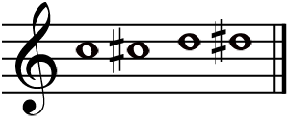
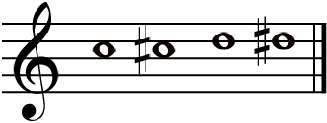
add width argument

diff --git a/docs/docs.md b/docs/docs.md
@@ -2,11 +2,9 @@
 
 Author: Matthew Davis
 
-This Typst package is used to draw musical scales.
-
-For now this is restricted to only one stave (set of 5 lines). This
-package can be used to write arbitrary notes, but is not intended to be
-used for entire songs.
+This Typst package is used to draw musical scales. This package can be
+used to write arbitrary notes, but is not intended to be used for entire
+songs.
 
 ``` typ
 #import "@preview/staves:0.1.0": major-scale
@@ -26,7 +24,7 @@ Arpeggio](https://raw.githubusercontent.com/mdavis-xyz/staves-typst/refs/heads/m
 
 ``` typ
 #import "@preview/staves:0.1.0": stave
-#stave("alto", "c", notes: ("C3", "D#4", "F3"))
+#stave("alto", "c", notes: ("C3", "D#4", "F3"), width: 7cm)
 ```
 
 ![Custom
@@ -36,7 +34,10 @@ Notes](https://raw.githubusercontent.com/mdavis-xyz/staves-typst/refs/heads/mast
 
 The foundational function is called `stave`. This is for writing just
 clefs, clefs and key signatures, or clefs, key signatures and custom
-notes.
+notes. Typically as a user you should use the higher-level abstractions
+such as `arpeggio` and `major-scale` (documented further down), if they
+suit your needs. `staves` is exposed for creating custom scales which
+are not yet supported (e.g. broken chords, scales in thirds etc).
 
 ### Usage
 
@@ -80,24 +81,26 @@ notes will be placed on the first stave. Page breaks are blocked between
 staves of the same scale.
 
 
-`geometric-scale`: (optional) Number e.g. 0.5 or 2 to draw the content at half or double
-the size. This is about visual scale, not musical scales.
-
-
 `note-duration`: (optional) Allowed values are “whole", "quarter", "semibreve",
 "crotchet”. Default is “whole” note. All notes are the same duration.
 
 
-`note-sep`: (optional) Used to adjust the horizontal spacing between notes. If you
-shrink below `note-sep: 0.7`, leger lines will overlap. At that point if
-it’s still too big, use `geometric-scale` as well.
+`width`: (Optional) If provided, sets the length of the stave lines. It omitted
+(or `auto`), the stave lines will be stretched to the available space.
+If the page width itself is `auto`, a sensible default will be used.
+
+
+`line-sep`: (Optional) A
+<u>[length](https://typst.app/docs/reference/layout/length/)</u> used to
+set the vertical spacing of the 5 stave lines (within a given stave).
+Note that this is a length with units, e.g. `3cm`, not just `3`.
 
 
 `equal-note-head-space`: `true` or `false`. Defaults to `true`. If true, note heads will be
 equally spaced. Some of this space will be taken up with accidentals. If
 `false`, adding an accidental to a note will shift the note head further
-right. `true` looks better (in my opinion), but `false` is useful in
-combination with the other spacing arguments, to avoid accidentals
+right. `true` looks better (in my opinion), but `false` is useful when
+trying to squish many notes into one stave, to avoid accidentals
 overlapping with previous note heads.
 
 ### Examples
@@ -147,24 +150,26 @@ The `notes-per-stave` argument can be used to split up long scales into
 multiple lines.
 
 ``` typ
-#major-scale("treble", "D", 4, num-octaves: 2, notes-per-stave: 2 * num-letters-per-octave)
+#major-scale("treble", "D", 4, num-octaves: 2, notes-per-stave: 16)
 ```
 
 ![2-octave scale scale with \`notes-per-stave\`:
 \`num-letters-per-octave\`](https://raw.githubusercontent.com/mdavis-xyz/staves-typst/refs/heads/master/docs/examples/scale-long.png)
 
-The `geometric-scale` argument can be used to adjust the overall size:
+The `width` argument can be used to adjust the overall width.
 
-|  |  |  |
-|----|----|----|
-| ![\`geometric-scale\`: 2](https://raw.githubusercontent.com/mdavis-xyz/staves-typst/refs/heads/master/docs/examples/geometric-scale-2.png) | ![default (omitted \`geometric-scale\`)](https://raw.githubusercontent.com/mdavis-xyz/staves-typst/refs/heads/master/docs/examples/geometric-scale-omitted.png) | ![\`geometric-scale\`: 0.5](https://raw.githubusercontent.com/mdavis-xyz/staves-typst/refs/heads/master/docs/examples/geometric-scale-0-5.png) |
+``` typ
+#stave("treble", "f", width: 7cm)
+```
 
-`note-sep` can be used to adjust the horizontal separation between
-notes, whilst keeping the height of the stave the same:
+![Explcit \`width\`
+argument](https://raw.githubusercontent.com/mdavis-xyz/staves-typst/refs/heads/master/docs/examples/width.png)
 
-|  |  |
-|----|----|
-| ![default (omitted \`note-sep\`)](https://raw.githubusercontent.com/mdavis-xyz/staves-typst/refs/heads/master/docs/examples/note-sep-omitted.png) | ![\`note-sep\`: 0.6](https://raw.githubusercontent.com/mdavis-xyz/staves-typst/refs/heads/master/docs/examples/note-sep-0-6.png) |
+The `line-sep` argument can be used to adjust the vertical spacing
+between stave lines:
+
+![\`line-sep\`
+argument](https://raw.githubusercontent.com/mdavis-xyz/staves-typst/refs/heads/master/docs/examples/line-sep.png)
 
 `equal-note-head-space` is used to adjust the spacing based on whether
 there are accidentals.
@@ -196,24 +201,26 @@ notes will be placed on the first stave. Page breaks are blocked between
 staves of the same scale.
 
 
-`geometric-scale`: (optional) Number e.g. 0.5 or 2 to draw the content at half or double
-the size. This is about visual scale, not musical scales.
-
-
 `note-duration`: (optional) Allowed values are “whole", "quarter", "semibreve",
 "crotchet”. Default is “whole” note. All notes are the same duration.
 
 
-`note-sep`: (optional) Used to adjust the horizontal spacing between notes. If you
-shrink below `note-sep: 0.7`, leger lines will overlap. At that point if
-it’s still too big, use `geometric-scale` as well.
+`width`: (Optional) If provided, sets the length of the stave lines. It omitted
+(or `auto`), the stave lines will be stretched to the available space.
+If the page width itself is `auto`, a sensible default will be used.
+
+
+`line-sep`: (Optional) A
+<u>[length](https://typst.app/docs/reference/layout/length/)</u> used to
+set the vertical spacing of the 5 stave lines (within a given stave).
+Note that this is a length with units, e.g. `3cm`, not just `3`.
 
 
 `equal-note-head-space`: `true` or `false`. Defaults to `true`. If true, note heads will be
 equally spaced. Some of this space will be taken up with accidentals. If
 `false`, adding an accidental to a note will shift the note head further
-right. `true` looks better (in my opinion), but `false` is useful in
-combination with the other spacing arguments, to avoid accidentals
+right. `true` looks better (in my opinion), but `false` is useful when
+trying to squish many notes into one stave, to avoid accidentals
 overlapping with previous note heads.
 
 ### Examples
@@ -226,16 +233,7 @@ overlapping with previous note heads.
 ![D Major
 Scale](https://raw.githubusercontent.com/mdavis-xyz/staves-typst/refs/heads/master/docs/examples/D-major.png)
 
-You can write a 2 octave scale with `num-octaves: 2`. This is probably
-too wide for your page. Shrink it horizontally with `note-sep`, or
-shrink in both dimensions with `geometric-scale`.
-
-``` typ
-#major-scale("bass", "F", 2, num-octaves: 2, note-sep: 0.7, geometric-scale: 0.7)
-```
-
-![F Major Scale, shrunken to fit the
-page](https://raw.githubusercontent.com/mdavis-xyz/staves-typst/refs/heads/master/docs/examples/F-major-shrunk.png)
+You can write a 2 octave scale with `num-octaves: 2`.
 
 ## Minor Scale
 
@@ -268,24 +266,26 @@ notes will be placed on the first stave. Page breaks are blocked between
 staves of the same scale.
 
 
-`geometric-scale`: (optional) Number e.g. 0.5 or 2 to draw the content at half or double
-the size. This is about visual scale, not musical scales.
-
-
 `note-duration`: (optional) Allowed values are “whole", "quarter", "semibreve",
 "crotchet”. Default is “whole” note. All notes are the same duration.
 
 
-`note-sep`: (optional) Used to adjust the horizontal spacing between notes. If you
-shrink below `note-sep: 0.7`, leger lines will overlap. At that point if
-it’s still too big, use `geometric-scale` as well.
+`width`: (Optional) If provided, sets the length of the stave lines. It omitted
+(or `auto`), the stave lines will be stretched to the available space.
+If the page width itself is `auto`, a sensible default will be used.
+
+
+`line-sep`: (Optional) A
+<u>[length](https://typst.app/docs/reference/layout/length/)</u> used to
+set the vertical spacing of the 5 stave lines (within a given stave).
+Note that this is a length with units, e.g. `3cm`, not just `3`.
 
 
 `equal-note-head-space`: `true` or `false`. Defaults to `true`. If true, note heads will be
 equally spaced. Some of this space will be taken up with accidentals. If
 `false`, adding an accidental to a note will shift the note head further
-right. `true` looks better (in my opinion), but `false` is useful in
-combination with the other spacing arguments, to avoid accidentals
+right. `true` looks better (in my opinion), but `false` is useful when
+trying to squish many notes into one stave, to avoid accidentals
 overlapping with previous note heads.
 
 ### Examples
@@ -348,24 +348,26 @@ notes will be placed on the first stave. Page breaks are blocked between
 staves of the same scale.
 
 
-`geometric-scale`: (optional) Number e.g. 0.5 or 2 to draw the content at half or double
-the size. This is about visual scale, not musical scales.
-
-
 `note-duration`: (optional) Allowed values are “whole", "quarter", "semibreve",
 "crotchet”. Default is “whole” note. All notes are the same duration.
 
 
-`note-sep`: (optional) Used to adjust the horizontal spacing between notes. If you
-shrink below `note-sep: 0.7`, leger lines will overlap. At that point if
-it’s still too big, use `geometric-scale` as well.
+`width`: (Optional) If provided, sets the length of the stave lines. It omitted
+(or `auto`), the stave lines will be stretched to the available space.
+If the page width itself is `auto`, a sensible default will be used.
+
+
+`line-sep`: (Optional) A
+<u>[length](https://typst.app/docs/reference/layout/length/)</u> used to
+set the vertical spacing of the 5 stave lines (within a given stave).
+Note that this is a length with units, e.g. `3cm`, not just `3`.
 
 
 `equal-note-head-space`: `true` or `false`. Defaults to `true`. If true, note heads will be
 equally spaced. Some of this space will be taken up with accidentals. If
 `false`, adding an accidental to a note will shift the note head further
-right. `true` looks better (in my opinion), but `false` is useful in
-combination with the other spacing arguments, to avoid accidentals
+right. `true` looks better (in my opinion), but `false` is useful when
+trying to squish many notes into one stave, to avoid accidentals
 overlapping with previous note heads.
 
 ### Example
@@ -404,40 +406,39 @@ notes will be placed on the first stave. Page breaks are blocked between
 staves of the same scale.
 
 
-`geometric-scale`: (optional) Number e.g. 0.5 or 2 to draw the content at half or double
-the size. This is about visual scale, not musical scales.
-
-
 `note-duration`: (optional) Allowed values are “whole", "quarter", "semibreve",
 "crotchet”. Default is “whole” note. All notes are the same duration.
 
 
-`note-sep`: (optional) Used to adjust the horizontal spacing between notes. If you
-shrink below `note-sep: 0.7`, leger lines will overlap. At that point if
-it’s still too big, use `geometric-scale` as well.
+`width`: (Optional) If provided, sets the length of the stave lines. It omitted
+(or `auto`), the stave lines will be stretched to the available space.
+If the page width itself is `auto`, a sensible default will be used.
+
+
+`line-sep`: (Optional) A
+<u>[length](https://typst.app/docs/reference/layout/length/)</u> used to
+set the vertical spacing of the 5 stave lines (within a given stave).
+Note that this is a length with units, e.g. `3cm`, not just `3`.
 
 
 `equal-note-head-space`: `true` or `false`. Defaults to `true`. If true, note heads will be
 equally spaced. Some of this space will be taken up with accidentals. If
 `false`, adding an accidental to a note will shift the note head further
-right. `true` looks better (in my opinion), but `false` is useful in
-combination with the other spacing arguments, to avoid accidentals
+right. `true` looks better (in my opinion), but `false` is useful when
+trying to squish many notes into one stave, to avoid accidentals
 overlapping with previous note heads.
-
-These scales tend to be quite long, so you probably want to use
-`note-sep` and `geometric-scale`, and perhaps a landscape page.
 
 ### Examples
 
 ``` typ
-#chromatic-scale("treble", "D", 4, note-sep: 0.8, geometric-scale: 0.7)
+#chromatic-scale("treble", "D", 4, notes-per-stave: semitones-per-octave + 1)
 ```
 
 ![D Chromatic
 Scale](https://raw.githubusercontent.com/mdavis-xyz/staves-typst/refs/heads/master/docs/examples/D-chromatic.png)
 
 ``` typ
-#chromatic-scale("bass", "G", 2, side: "flat", geometric-scale: 0.6, note-duration: "crotchet")
+#chromatic-scale("bass", "G", 2, side: "flat", note-duration: "crotchet", notes-per-stave: semitones-per-octave + 1)
 ```
 
 ![G Chromatic
@@ -470,8 +471,8 @@ and is likely to change in fugure versions.
 ## Setting Defaults
 
 To set a default, such as the same `note-duration` for your whole
-document, use [the with
-approach](https://forum.typst.app/t/how-to-apply-set-rules-to-custom-functions/1657/2?u=mdavis_xyz)
+document, use <u>[the with
+approach](https://forum.typst.app/t/how-to-apply-set-rules-to-custom-functions/1657/2?u=mdavis_xyz)</u>
 (for each different scale type):
 
 ``` typ
@@ -482,7 +483,7 @@ approach](https://forum.typst.app/t/how-to-apply-set-rules-to-custom-functions/1
 ## Implementation Details
 
 This package uses a `canvas` from the
-[CeTZ](https://typst.app/universe/package/cetz) package.
+<u>[CeTZ](https://typst.app/universe/package/cetz)</u> package.
 
 ## License Details
 
@@ -490,4 +491,4 @@ This library uses SVG images for clefs, accidentals etc. These files
 came from Wikipedia, and are in the public domain. They are not covered
 by the same license as the rest of the package. Source URLs for these
 SVGs are listed in
-[`/assets/README.md`](https://github.com/mdavis-xyz/staves-typst/tree/master/assets)
+<u>[`/assets/README.md`](https://github.com/mdavis-xyz/staves-typst/tree/master/assets)</u>
